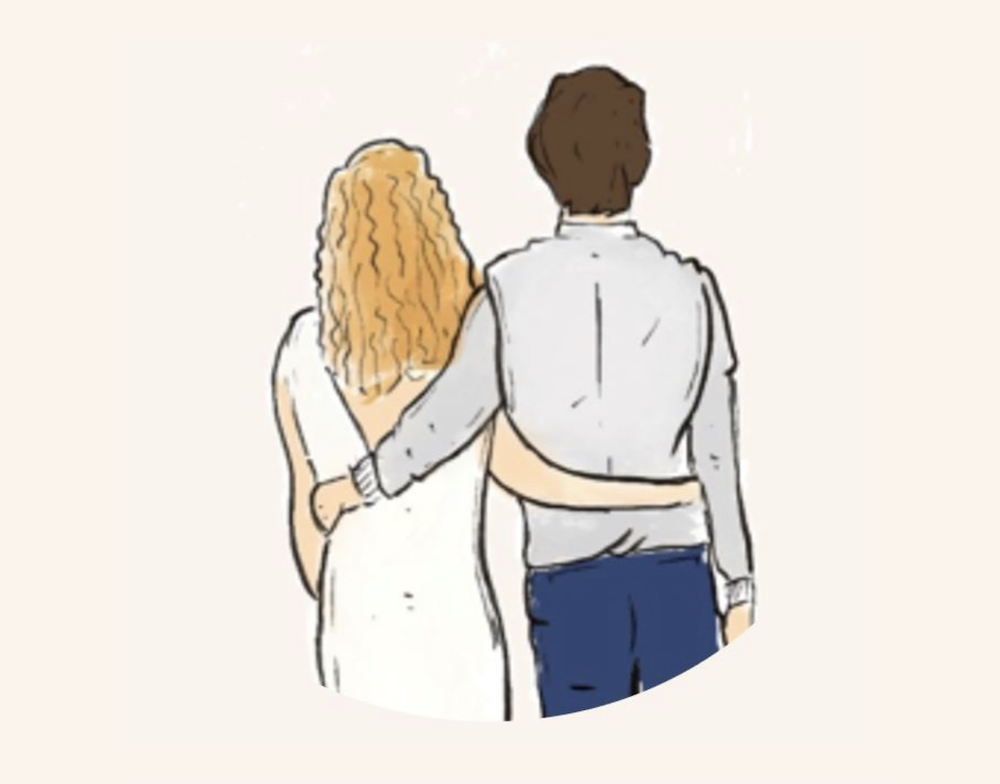
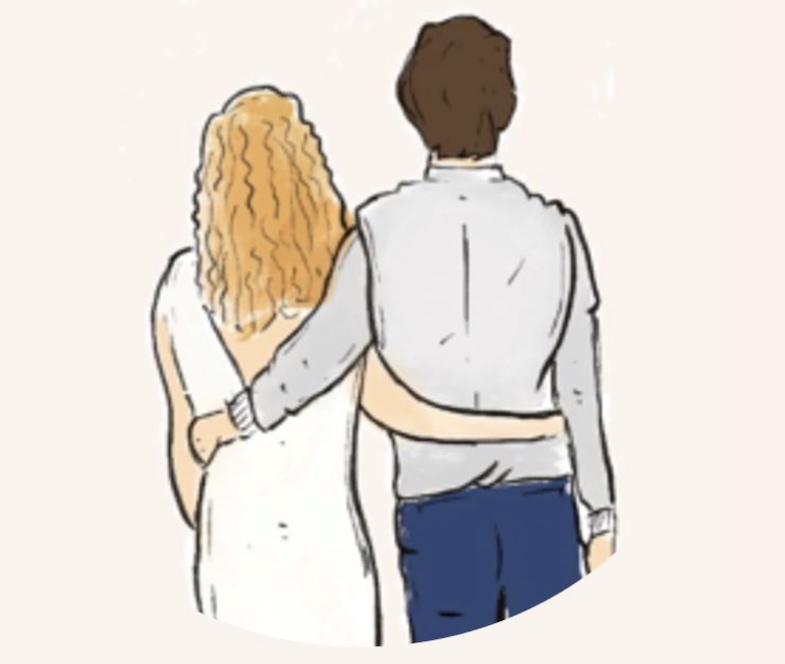
Add files via upload

Changed region(s): [[0.1834, 0.0, 0.7949, 0.994], [0.5809, 0.3313, 0.6115, 0.512], [0.5503, 0.512, 0.5809, 0.5422]]

diff --git a/style.css b/style.css
@@ -3,7 +3,7 @@
    Palette fournie
    ============================================================ */
 
-@import url('https://fonts.googleapis.com/css2?family=Cormorant+Garamond:wght@400;500;600&family=Montserrat:wght@400;500;600&display=swap');
+@import url('https://fonts.googleapis.com/css2?family=Merienda:wght@400;500;600;700&family=Montserrat:wght@400;500;600&display=swap');
 
 :root {
   --cream: #FBF4EE;
@@ -14,10 +14,8 @@
   --grey: #EEECED;
   --white: #FFFDFC;
 
-  /* Si Worstveld Sting est installée sur l'appareil, elle sera utilisée.
-     Sinon, Cormorant Garamond donne un rendu proche et élégant. */
-  --title-font: "Worstveld Sting", "Cormorant Garamond", Georgia, serif;
-  --body-font: Montserrat, Arial, sans-serif;
+  --title-font: "Merienda", Georgia, serif;
+  --body-font: "Montserrat", Arial, sans-serif;
 }
 
 * { box-sizing: border-box; }
@@ -124,8 +122,8 @@ h3 { font-family: var(--body-font); font-size: 1rem; font-weight: 600; margin: 0
 
 /* ACCUEIL */
 .hero {
-  min-height: calc(100vh - 182px);
-  padding: 65px 18px 80px;
+  min-height: calc(100vh - 150px);
+  padding: 20px 18px 20px;
   text-align: center;
   display: flex;
   flex-direction: column;
@@ -287,7 +285,8 @@ h3 { font-family: var(--body-font); font-size: 1rem; font-weight: 600; margin: 0
   }
 
   .brand {
-    font-size: 1.45rem;
+    font-size: 2.00rem;
+    padding: 10px 2px;
   }
 
   .menu-toggle {
@@ -317,7 +316,7 @@ h3 { font-family: var(--body-font); font-size: 1rem; font-weight: 600; margin: 0
   .nav-links a:last-child { border-bottom: 0; }
 
   .garland { height: 76px; }
-  .hero { min-height: auto; padding: 54px 14px 62px; }
+  .hero { min-height: auto; padding: 24px 14px 32px; }
   .save-date { font-size: 1.75rem; }
   .couple { width: min(390px, 88vw); }
   h1 { font-size: clamp(3.45rem, 16vw, 5.4rem); margin: 4px 0 22px; }
@@ -326,7 +325,7 @@ h3 { font-family: var(--body-font); font-size: 1rem; font-weight: 600; margin: 0
   .date-ribbon span { font-size: .64rem; }
 
   .section-white, .section-cream { padding: 60px 16px; }
-  .intro h2 { font-size: 2.45rem; }
+  .intro h2 { font-size: 1.65rem; }
   .programme h2 { margin-bottom: 38px; }
   .event { grid-template-columns: 72px 1fr; gap: 15px; padding-bottom: 22px; margin-bottom: 22px; }
   .event time { font-size: 1.08rem; }
@@ -342,7 +341,7 @@ h3 { font-family: var(--body-font); font-size: 1rem; font-weight: 600; margin: 0
   .info-card { padding: 26px; }
   .info-card h2 { font-size: 2.05rem; }
   .rsvp { padding: 58px 18px 55px; }
-  .rsvp h2 { font-size: 2.5rem; }
+  .rsvp h2 { font-size: 2.0rem; }
   .site-footer > img { height: 70px; }
 }
 

diff --git a/programme.html b/programme.html
@@ -40,29 +40,26 @@
 
       <div class="timeline">
         <article class="event">
-          <time>11h00</time>
+          <time>11h</time>
           <div class="event-body">
             <h3>Mariage civil</h3>
-            <p>Mairie du 1er arrondissement de Lyon<br>2 Pl. Sathonay, 69001 Lyon</p>
-            <a href="https://www.google.com/maps/search/?api=1&query=2+Place+Sathonay+69001+Lyon" target="_blank" rel="noopener">Voir l'itinéraire →</a>
+            <p>Venez officialiser avec nous notre mariage à la mairie du 1er arrondissement de Lyon</p>
           </div>
         </article>
 
         <article class="event">
-          <time>12h00</time>
+          <time>12h</time>
           <div class="event-body">
             <h3>Vin d'honneur</h3>
-            <p>Chez - Marti (hall de la Martinière)<br>Pl. Gabriel Rambaud, 69001 Lyon</p>
-            <a href="https://www.google.com/maps/search/?api=1&query=Place+Gabriel+Rambaud+69001+Lyon" target="_blank" rel="noopener">Voir l'itinéraire →</a>
+            <p>Venz boire un verre Chez Marti (Halles de la Martinière)...</p>
           </div>
         </article>
 
         <article class="event">
-          <time>A partir de 15h00</time>
+          <time>A partir de 15h</time>
           <div class="event-body">
             <h3>Rendez-vous au </h3>
-            <p>Domaine du Petit Chambard<br>460 D66, 01480 Villeneuve</p>
-            <a href="https://www.google.com/maps/search/?api=1&query=460+D66+01480+Villeneuve" target="_blank" rel="noopener">Voir l'itinéraire →</a>
+            <p>Profitons au Domaine du Petit Chambard, activités prévues pour la journée.</p>
           </div>
         </article>
 

diff --git a/infos-pratiques.html b/infos-pratiques.html
@@ -86,12 +86,12 @@
  
         <h2>Contacts</h2>
              <h3><u>Les mariés</u></h3>
-        <p><strong>Chloé : </strong><a class="phone" href="tel:0688693047">06 88 69 30 47</a></p>
-        <p><strong>Arthur : </strong><a class="phone" href="tel:0686135963">06 86 13 59 63</a></p>
-        <p><strong>Mail : </strong><a class="phone" href="mailto:chloe.arthur.gagneux@gmail.com?subject=Question%20pour%20le%20mariage">chloe.arthur.gagneux@gmail.com</a></p>
+        <p>Chloé : <a class="phone" href="tel:0688693047">06 88 69 30 47</a></p>
+        <p>Arthur : <a class="phone" href="tel:0686135963">06 86 13 59 63</a></p>
+        <p>Mail : <a class="phone" href="mailto:chloe.arthur.gagneux@gmail.com?subject=Question%20pour%20le%20mariage">chloe.arthur.gagneux@gmail.com</a></p>
       <h3><u>Les témoins</u></h3>
-        <p><strong>Marie : </strong><a class="phone" href="tel:0633565966">06 33 56 59 66</a></p>
-        <p><strong>Jonathan : </strong><a class="phone" href="tel:0662640886">06 62 64 08 86</a></p>
+        <p>Marie : <a class="phone" href="tel:0633565966">06 33 56 59 66</a></p>
+        <p>Jonathan : <a class="phone" href="tel:0662640886">06 62 64 08 86</a></p>
       </article>
 
     </div>
